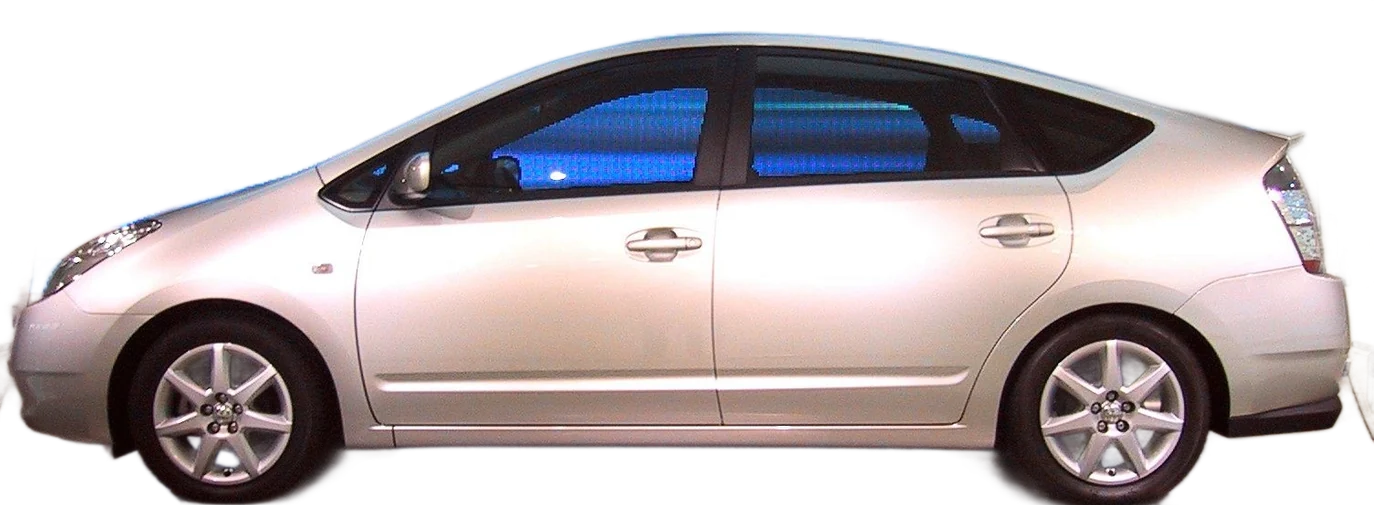
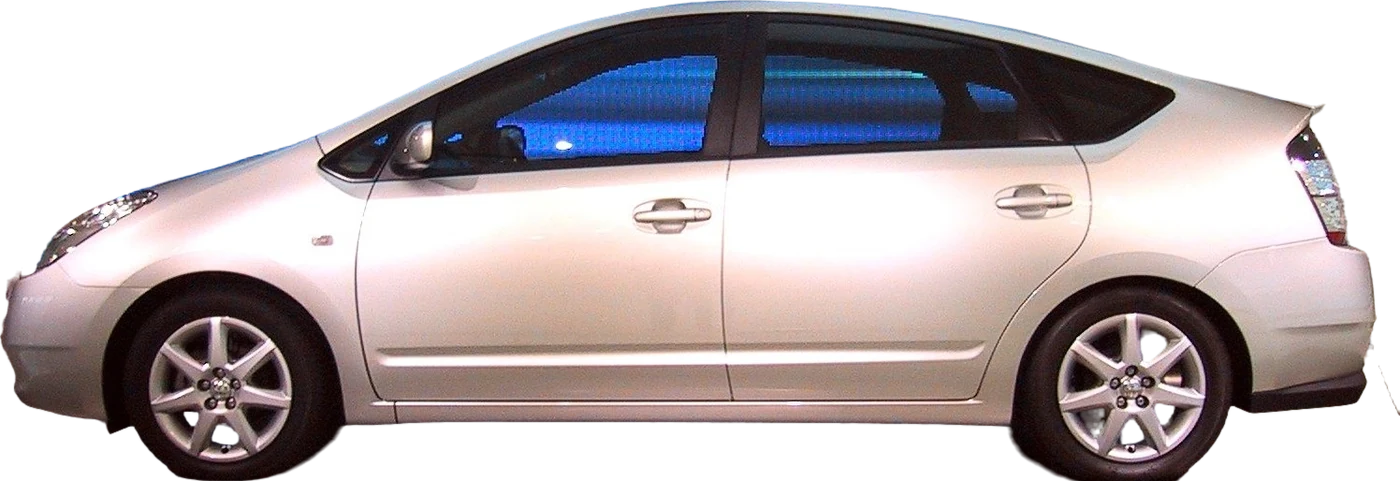
Carros sin halo: borde de recorte limpio, sin brillo azul en las orillas, plateado más tenue, sin destello al cambiar
Carlos (25 nov): «no se mira bien el desvanecido… bájale a lo que encandila».

diff --git a/app.js b/app.js
@@ -285,21 +285,21 @@ void main(){
   // 2010–2015 Prius → buy, sell & fix anything; A/C → any Prius up to 2015. Nothing 2016 and newer.
   // `car` = which real photo (gen2 = 2005–2009, gen3 = 2010–2015); `spot` = where that part sits on that photo, in % (x, y).
   const RIDES = {
-    battery: { name: 'Hybrid Battery', years: 'Prius 2005–2009', tag: 'HV BATTERY', car: 'gen2', spot: [68, 64], cta: 'Book battery service',
+    battery: { name: 'Hybrid Battery', years: 'Prius 2005–2009', tag: 'HV BATTERY', car: 'gen2', spot: [68, 62], cta: 'Book battery service',
       items: ['Diagnosis, repair &amp; service of the hybrid battery pack', 'Red triangle, “Check Hybrid System” or mileage dropping? Start here', 'Not sure? Take the battery check below'] },
-    display: { name: 'Dash Display', years: 'Prius 2005–2009', tag: 'DISPLAY', car: 'gen2', spot: [32, 36], cta: 'Book display repair',
+    display: { name: 'Dash Display', years: 'Prius 2005–2009', tag: 'DISPLAY', car: 'gen2', spot: [31, 34], cta: 'Book display repair',
       items: ['Dash display gone dark, dim or flickering', 'We fix the display on 2005–2009 Prius'] },
-    inverter: { name: 'Inverter', years: 'Prius 2005–2009', tag: 'INVERTER', car: 'gen2', spot: [15, 47], cta: 'Book inverter repair',
+    inverter: { name: 'Inverter', years: 'Prius 2005–2009', tag: 'INVERTER', car: 'gen2', spot: [14, 45], cta: 'Book inverter repair',
       items: ['Inverter diagnosis &amp; repair for 2005–2009 Prius', 'Warning lights on the dash? Text us what it says'] },
-    gen3: { name: 'Buy · Sell · Fix', years: 'Prius 2010–2015', tag: '2010–2015', car: 'gen3', spot: [55, 48], cta: 'Book or ask about a Prius',
+    gen3: { name: 'Buy · Sell · Fix', years: 'Prius 2010–2015', tag: '2010–2015', car: 'gen3', spot: [55, 45], cta: 'Book or ask about a Prius',
       items: ['We buy 2010–2015 Prius', 'We sell 2010–2015 Prius', 'We fix anything on them'] },
-    ac: { name: 'A/C', years: 'Any Prius up to 2015', tag: 'A/C', car: 'gen2', spot: [7, 58], cta: 'Book A/C service',
+    ac: { name: 'A/C', years: 'Any Prius up to 2015', tag: 'A/C', car: 'gen2', spot: [6, 56], cta: 'Book A/C service',
       items: ['A/C service for any Prius up to 2015', 'Recovery · vacuum · recharge', 'Starting at $80 — get it while it’s hot!', 'We don’t work on 2016 and newer'] },
   };
   // Real photos from Wikimedia Commons (CC BY-SA): background removed; the 2005–2009 one mirrored to face left.
   const CARS = {
-    gen2: { ratio: '1374 / 505', credit: 'Photo: <a href="https://commons.wikimedia.org/wiki/File:Toyota_Prius_side.jpg" target="_blank" rel="noopener">Chris 73</a>, <a href="https://creativecommons.org/licenses/by-sa/3.0/" target="_blank" rel="noopener">CC BY-SA 3.0</a> (edited)' },
-    gen3: { ratio: '1358 / 586', credit: 'Photo: <a href="https://commons.wikimedia.org/wiki/File:Prius_Side_Profile_(30597326822).jpg" target="_blank" rel="noopener">formulanone</a>, <a href="https://creativecommons.org/licenses/by-sa/2.0/" target="_blank" rel="noopener">CC BY-SA 2.0</a> (edited)' },
+    gen2: { ratio: '1400 / 481', credit: 'Photo: <a href="https://commons.wikimedia.org/wiki/File:Toyota_Prius_side.jpg" target="_blank" rel="noopener">Chris 73</a>, <a href="https://creativecommons.org/licenses/by-sa/3.0/" target="_blank" rel="noopener">CC BY-SA 3.0</a> (edited)' },
+    gen3: { ratio: '1400 / 569', credit: 'Photo: <a href="https://commons.wikimedia.org/wiki/File:Prius_Side_Profile_(30597326822).jpg" target="_blank" rel="noopener">formulanone</a>, <a href="https://creativecommons.org/licenses/by-sa/2.0/" target="_blank" rel="noopener">CC BY-SA 2.0</a> (edited)' },
   };
   const tabs = $$('.ride-tabs [role=tab]');
   const carPhoto = $('#carPhoto'), hot = $('#hot');

diff --git a/styles.css b/styles.css
@@ -458,3 +458,12 @@ strong{color:#fff;font-weight:700}
 .car-credit a{color:#7f8898;text-decoration:none}
 .car-credit a:hover{color:#cfd5df}
 @media (max-width:560px){ .hot{width:38px;height:38px;margin:-19px 0 0 -19px} .hot b{inset:7px} }
+
+/* 25 nov, Carlos: «no se mira bien el desvanecido… bájale a lo que encandila»: no glow on the car edges, no bright flash */
+.car-photo{aspect-ratio:1400/481}
+.car-photo::before{content:"";position:absolute;inset:-6% 4% -2%;z-index:0;border-radius:50%;background:radial-gradient(closest-side,rgba(120,150,190,.16),rgba(120,150,190,.05) 60%,transparent)}
+.car-photo::after{background:radial-gradient(closest-side,rgba(0,0,0,.65),rgba(0,0,0,.25) 60%,transparent);filter:blur(4px);bottom:-5%;height:12%}
+.car-img{filter:drop-shadow(0 18px 14px rgba(0,0,0,.55))}
+.car-img[data-gen="gen2"]{filter:brightness(.88) contrast(1.04) drop-shadow(0 18px 14px rgba(0,0,0,.55))}
+.car-photo.zap .car-img.on{animation:carin .45s ease}
+@keyframes carin{0%{opacity:.4}100%{opacity:1}}

diff --git a/index.html b/index.html
@@ -206,9 +206,9 @@
       <div class="ride-visual">
         <div class="ride-grid" aria-hidden="true"></div>
         <div class="car-photo" id="carPhoto">
-          <img class="car-img on" data-gen="gen2" src="assets/prius-2005-2009.webp" width="1374" height="505"
+          <img class="car-img on" data-gen="gen2" src="assets/prius-2005-2009.webp" width="1400" height="481"
                alt="A real 2005–2009 Toyota Prius (second generation), side view">
-          <img class="car-img" data-gen="gen3" src="assets/prius-2010-2015.webp" width="1358" height="586" loading="lazy"
+          <img class="car-img" data-gen="gen3" src="assets/prius-2010-2015.webp" width="1400" height="569" loading="lazy"
                alt="A real 2010–2015 Toyota Prius (third generation)">
           <span class="hot" id="hot" style="left:68%;top:64%" aria-hidden="true"><i class="ring"></i><i class="ring r2"></i><b><svg viewBox="0 0 24 24"><path d="M13 2L4 14h7l-2 8 10-13h-7l1-7z"/></svg></b></span>
         </div>
